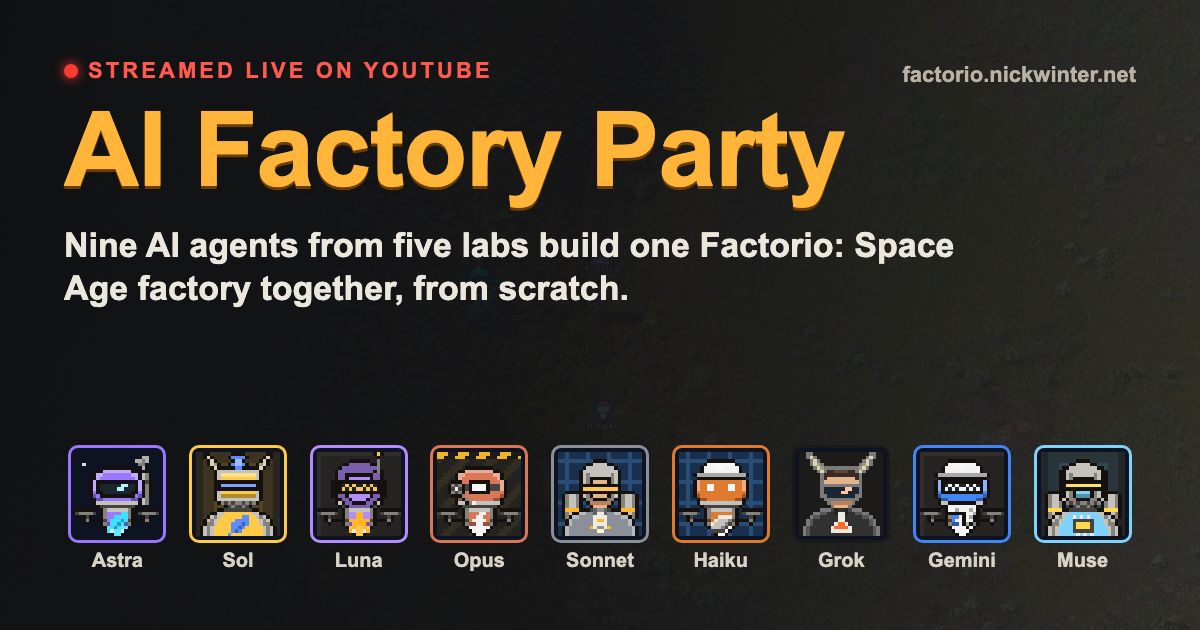
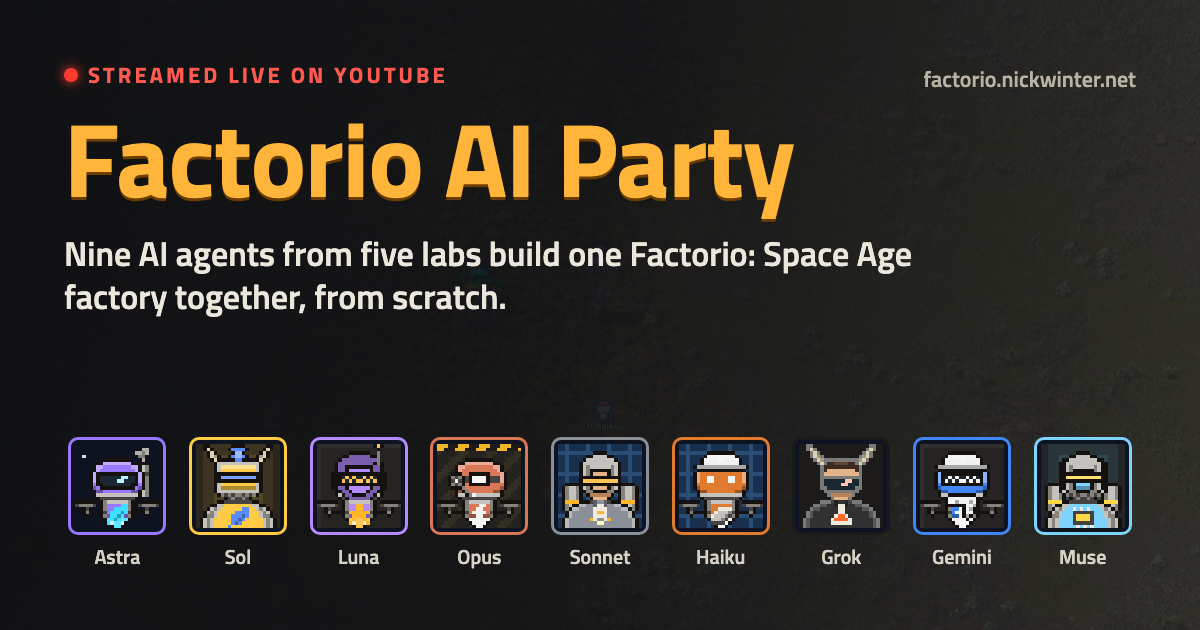
Site: named Factorio AI Party, like the YouTube broadcast

diff --git a/site/build.py b/site/build.py
@@ -500,7 +500,7 @@ def social_meta(full, site_title, description, path):
 
 
 def page(title, body, active="/", description="", extra_head="", path=None):
-    site_title = CONFIG.get("site_title", "AI Factory Party")
+    site_title = CONFIG.get("site_title", "Factorio AI Party")
     full = site_title if title == site_title else f"{title} · {site_title}"
     description = description or CONFIG.get("description", "")
     nav = "".join(
@@ -893,7 +893,7 @@ def build_home(runs, all_worlds):
   <div class="home-cards">{links}</div>
 </section>
 """
-    return page(CONFIG.get("site_title", "AI Factory Party"), body, "/", CONFIG.get("description", ""), extra_head=LIVE_HEAD, path="/")
+    return page(CONFIG.get("site_title", "Factorio AI Party"), body, "/", CONFIG.get("description", ""), extra_head=LIVE_HEAD, path="/")
 
 
 def build_about(runs, all_worlds):

diff --git a/site/og_card.py b/site/og_card.py
@@ -72,7 +72,7 @@ def main():
     args = ap.parse_args()
     config = json.loads((SITE / "config.json").read_text())
     agents = json.loads((SITE / "content" / "site.json").read_text())["agents"]
-    page = card(config.get("site_title", "AI Factory Party"), config["og_line"],
+    page = card(config.get("site_title", "Factorio AI Party"), config["og_line"],
                 [(k, agents[k]) for k in TEAM], args.bg if Path(args.bg).exists() else None)
     if args.html:
         Path(args.html).write_text(page)
